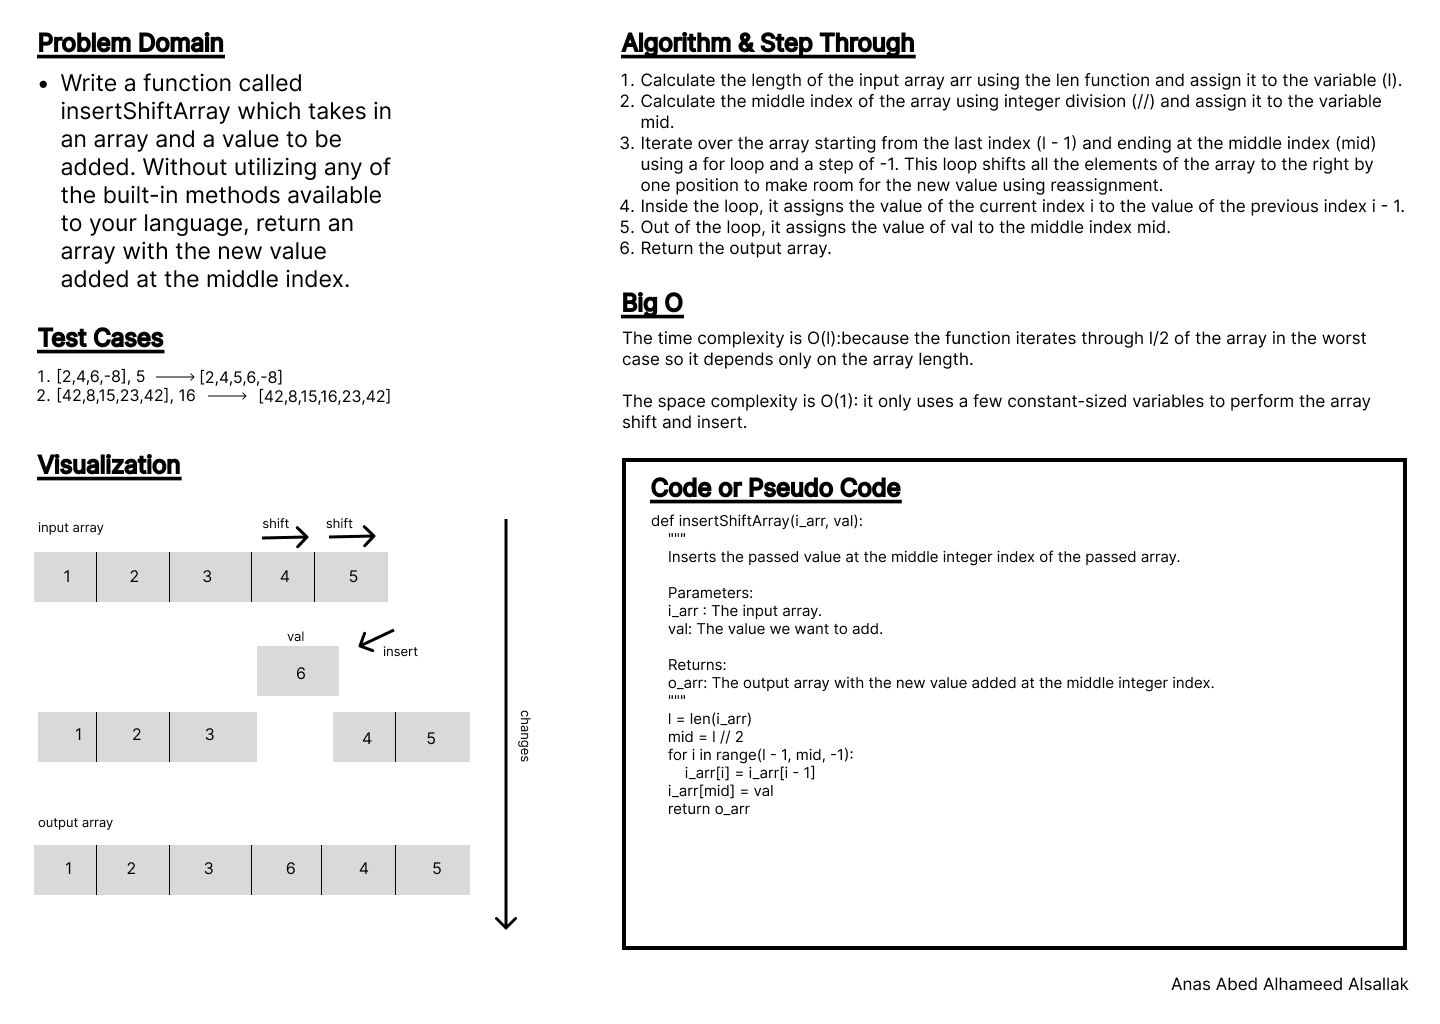
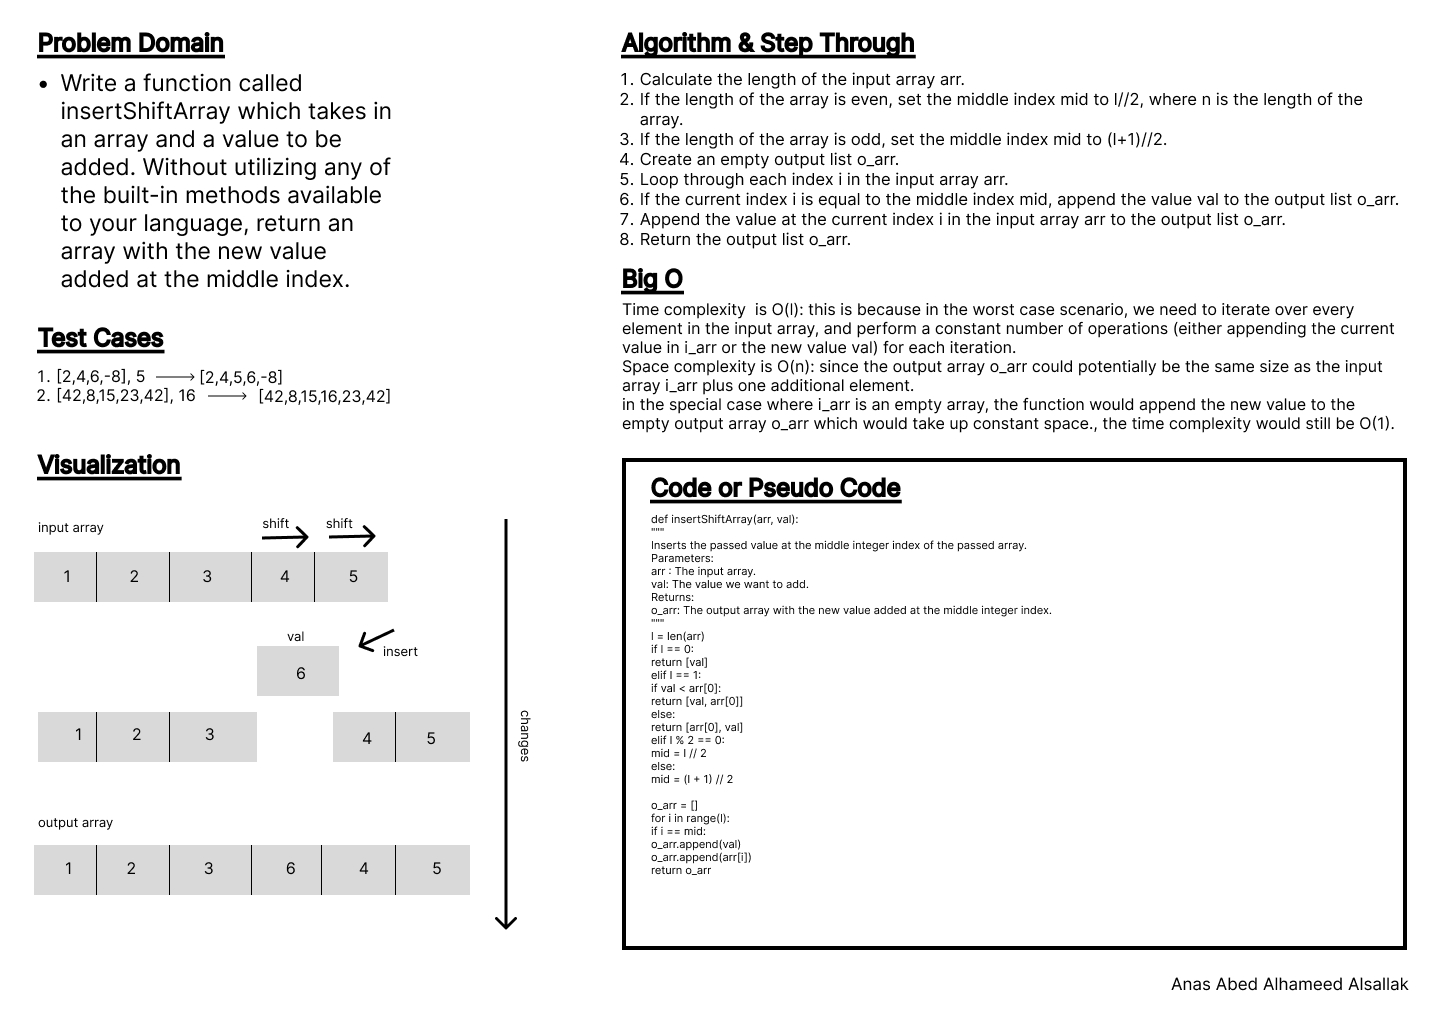
Solved CC 02

diff --git a/arrayInsertShift.py b/arrayInsertShift.py
@@ -1,0 +1,67 @@
+def insertShiftArray(arr, val):
+    """
+    Inserts the passed value at the middle integer index of the passed array.
+    
+    Parameters:
+    arr : The input array.
+    val: The value we want to add.
+    
+    Returns:
+    o_arr: The output array with the new value added at the middle integer index.
+    """
+    l = len(arr)
+    if l == 0:
+        return [val]
+    elif l == 1:
+        if val < arr[0]:
+            return [val, arr[0]]
+        else:
+            return [arr[0], val]
+    elif l % 2 == 0:
+        mid = l // 2
+    else:
+        mid = (l + 1) // 2
+
+    o_arr = []
+    for i in range(l):
+        if i == mid:
+            o_arr.append(val)
+        o_arr.append(arr[i])
+        
+    return o_arr
+
+
+def test_insertShiftArray():
+    # Test case 1
+    i_arr = [1, 2, 3, 4, 5]
+    val = 6
+    expected = [1, 2, 3, 6, 4, 5]
+    o_arr = insertShiftArray(i_arr, val)
+    assert o_arr == expected, f"Expected {expected}, but got {o_arr}"
+
+    # Test case 2
+    i_arr = [1, 2, 3, 4]
+    val = 5
+    expected = [1, 2, 5, 3, 4]
+    o_arr = insertShiftArray(i_arr, val)
+    assert o_arr == expected, f"Expected {expected}, but got {o_arr}"
+
+    # Test case 3
+    i_arr = []
+    val = 1
+    expected = [1]
+    o_arr = insertShiftArray(i_arr, val)
+    assert o_arr == expected, f"Expected {expected}, but got {o_arr}"
+    
+    # Test case 4
+    i_arr = [1]
+    val = 2
+    expected = [1, 2]
+    o_arr = insertShiftArray(i_arr, val)
+    assert o_arr == expected, f"Expected {expected}, but got {o_arr}"
+
+    print("All test cases pass")
+
+test_insertShiftArray()
+
+

diff --git a/arrayReverse.py b/arrayReverse.py
@@ -1,0 +1,53 @@
+def reverse_array(arr):
+    """
+    Reverses the order of elements in an array.
+
+    Parameters:
+        arr : The array to be reversed.
+
+    Returns:
+        arr: The reversed array.
+    """
+    arr_len = len(arr)
+    # Loop through the first half of the array and swap elements
+    i = 0
+    while i < arr_len // 2:
+        # Calculate the index of the corresponding element from the end of the array
+        j = arr_len - 1 - i
+        # Swap the elements using a temporary variable
+        temp = arr[i]
+        arr[i] = arr[j]
+        arr[j] = temp
+        i += 1
+
+    return arr
+
+
+def test_reverse_array():
+    # Test case 1
+    arr = [1, 2, 3, 4, 5]
+    expected = [5, 4, 3, 2, 1]
+    o_arr = reverse_array(arr)
+    assert o_arr == expected, f"Expected {expected}, but got {o_arr}"
+    
+    # Test case 2
+    arr = [1, 2, 3, 4]
+    expected = [4, 3, 2, 1]
+    o_arr = reverse_array(arr)
+    assert o_arr == expected, f"Expected {expected}, but got {o_arr}"
+    
+    # Test case 3
+    arr = []
+    expected = []
+    o_arr = reverse_array(arr)
+    assert o_arr == expected, f"Expected {expected}, but got {o_arr}"
+    
+    # Test case 4
+    arr = [1]
+    expected = [1]
+    o_arr = reverse_array(arr)
+    assert o_arr == expected, f"Expected {expected}, but got {o_arr}"
+
+    print("All test cases pass")
+
+    test_reverse_array()

diff --git a/array_insert_shift/README.md b/array_insert_shift/README.md
@@ -12,12 +12,12 @@ Write a function called insertShiftArray which takes in an array and a value to 
 
 Loops, indexes.
 
-The time complexity is O(l):because the function iterates through l/2 of the array in the worst case, so it depends on the array length.
-
-The space complexity is O(1): it only uses a few constant-sized variables to perform the array shift and insert.
+Time complexity is O(l): this is because in the worst case scenario, we need to iterate over every element in the input array, and perform a constant number of operations (either appending the current value in i_arr or the new value val) for each iteration.
+Space complexity is O(n): since the output array o_arr could potentially be the same size as the input array i_arr plus one additional element.
+In the special case where i_arr is an empty array, the function would append the new value to the empty output array o_arr which would take up constant space., the time complexity would still be O(1).
 
 ## Solution
-<!-- Show how to run your code, and examples of it in action -->
-For later.
+
+![Run](../assets/run.jpg "run").
 
 [Previous](../array_reverse/README.md)

diff --git a/README.md b/README.md
@@ -14,6 +14,7 @@ This where you can find my solutions for Code 401 - Advanced Software Developmen
 | CC #      | Link |
 | ----------- | ----------- |
 | CC 01     | [CC 01](./array_reverse/README.md) |
+| CC 02     | [CC 02](./array_insert_shift/README.md) |
 
 > **Note:** This main page will be updated accordingly.
 
